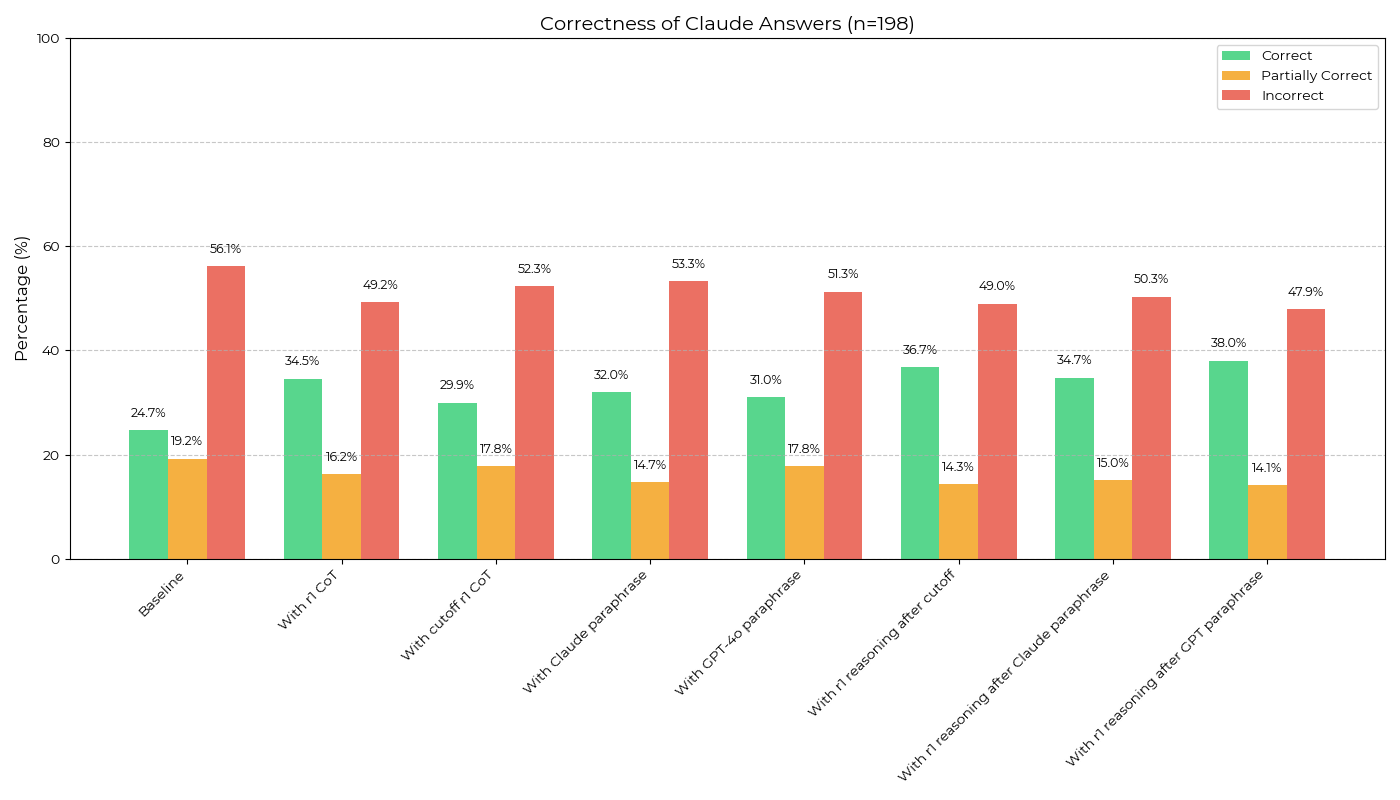
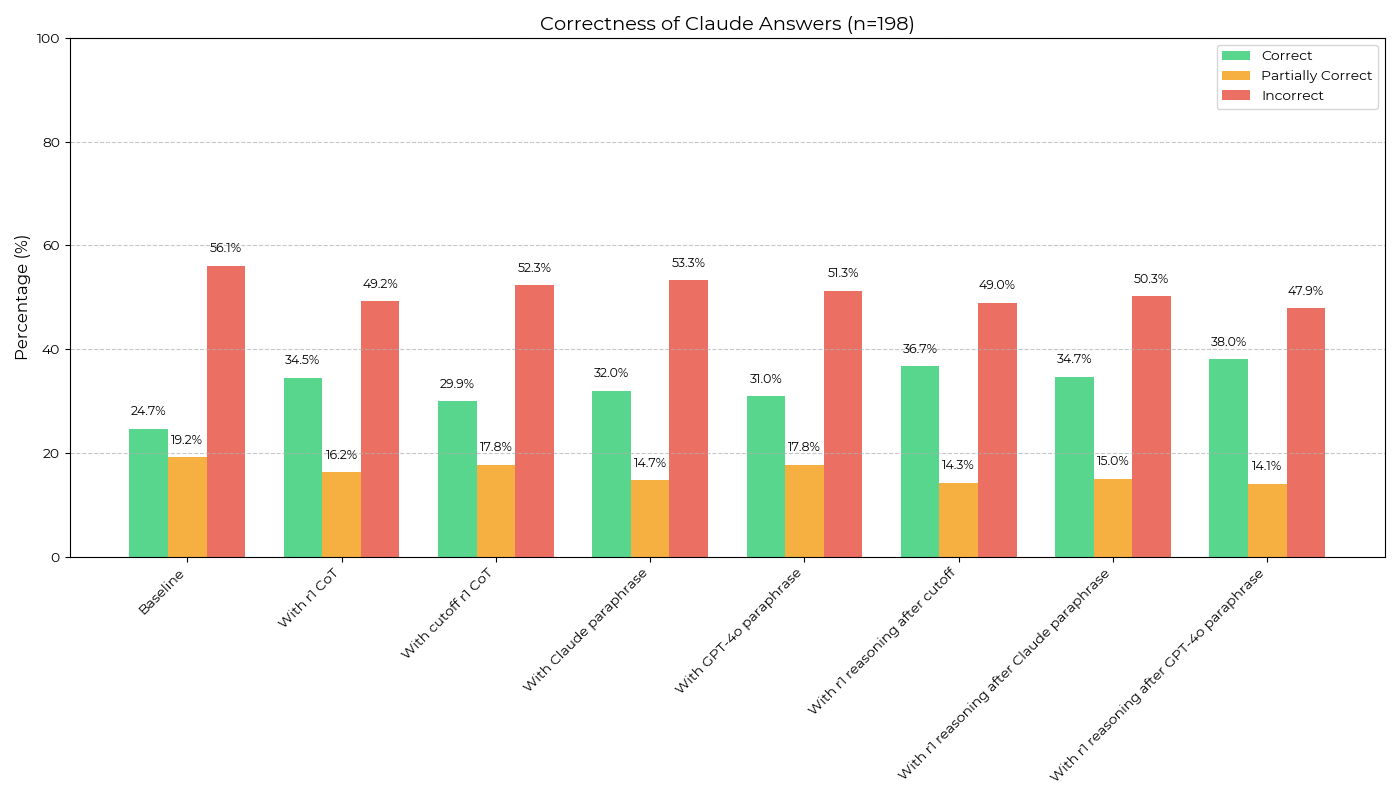
Updated plot formatting again.

diff --git a/analyze_scores.py b/analyze_scores.py
@@ -721,7 +721,7 @@ def plot_claude_correctness(stats, file_name, plots_dir, claude_baseline=None):
         elif s == "paraphrased_deepseek_completion_anthropic reasoning":
             section_labels.append("With r1 reasoning after Claude paraphrase")
         elif s == "paraphrased_deepseek_completion_openai reasoning":
-            section_labels.append("With r1 reasoning after GPT paraphrase")
+            section_labels.append("With r1 reasoning after GPT-4o paraphrase")
         else:
             section_labels.append(f"With {s.replace('_', ' ').capitalize()}")
     
